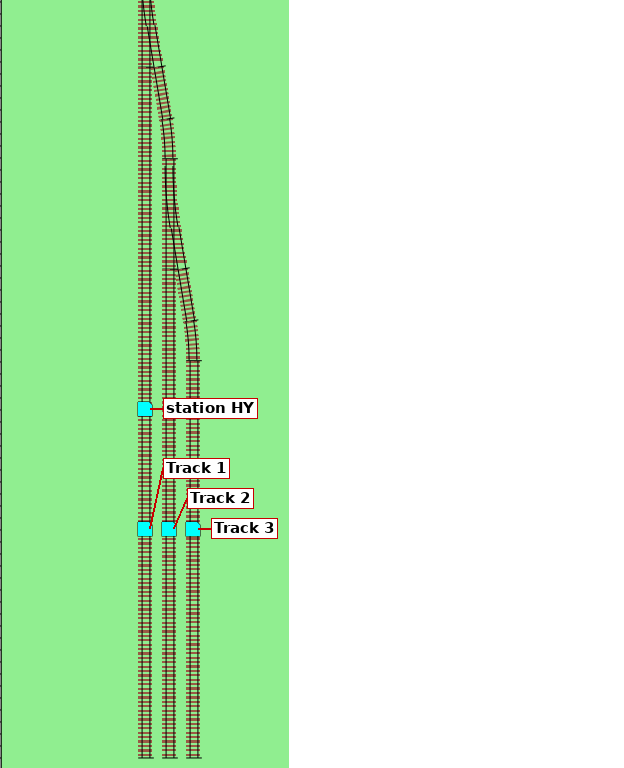
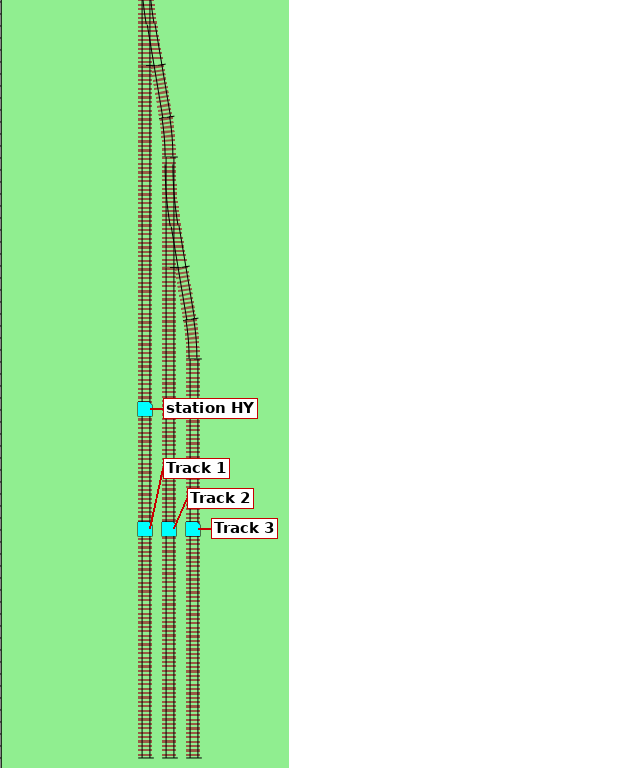
mcp: generate_track_plan: a straight yard track holds what was asked
Found in the tutorial walk-through: the plan said Hillside yard Track 2
holds 6 cars, the export measured 5 (35.86 in). The planner took a
straight track's clearance point from the diverging track's offset;
the diverging track curves back toward the straight one, so the nearest
distance, which the export measures, reaches 13 ft a little later.
straight_clearance_point() measures that, and the yard's straight tracks
use it (the yard is sized for the shorter of its last two tracks). Test:
the plan's yard capacities equal the export's; every track holds the 6
cars asked for.

The yard is 0.14 in longer: the throat, MP zero (its note at y 67.9) and
the quoted MPs move by about 0.01-0.02; chapter 8 no longer explains a
6-car track holding 5; screenshots retaken.

Changed region(s): [[0.2131, 0.0, 0.3349, 0.9062]]

diff --git a/mcp/src/xtrkcad_mcp/track_plan.py b/mcp/src/xtrkcad_mcp/track_plan.py
@@ -466,6 +466,47 @@ def clearance_tail(defn: TurnoutDef, clearance: float, spacing: float,
     return _clearance_run(defn, clearance, spacing, radius)[1]
 
 
+def straight_clearance_point(defn: TurnoutDef, clearance: float, spacing: float,
+                             radius: float) -> float:
+    """How far from a turnout's points the *straight* track is clear of the
+    diverging one: where the nearest distance from it to the diverging track
+    reaches ``clearance``. The diverging track curves back toward it, so this
+    is a little beyond clearance_point() (the diverging track's own offset
+    there), which is what the export measures a straight track by."""
+    xs = clearance_point(defn, clearance, spacing, radius)
+    pts = _diverging_path(defn, spacing, radius)
+    segs = list(zip(pts, pts[1:]))
+
+    def nearest(x: float) -> float:
+        best = math.inf
+        for (x0, y0), (x1, y1) in segs:
+            dx, dy = x1 - x0, y1 - y0
+            sq = dx * dx + dy * dy
+            t = 0.0 if sq < 1e-12 else max(0.0, min(1.0, ((x - x0) * dx - y0 * dy) / sq))
+            best = min(best, math.hypot(x - (x0 + t * dx), -(y0 + t * dy)))
+        return best
+
+    while nearest(xs) < clearance - 1e-9 and xs < pts[-1][0] + 1.0:
+        xs += 0.002
+    return xs
+
+
+def _diverging_path(defn: TurnoutDef, spacing: float, radius: float):
+    """The diverging track as points (along the straight route, offset from
+    it): through the turnout, the run out at the frog angle, the curve back
+    to parallel at ``spacing``."""
+    _along, straight, r = _offset_run(defn, spacing, radius)
+    th = math.radians(defn.frog_angle)
+    xd, yd = defn.diverge_length, abs(defn.diverge_offset)
+    pts = _diverging_samples(defn)
+    pts += [(xd + t * math.cos(th), yd + t * math.sin(th))
+            for t in [straight * k / 200 for k in range(201)]]
+    x2 = xd + straight * math.cos(th) + r * math.sin(th)
+    pts += [(x2 - r * math.sin(phi), spacing - r * (1.0 - math.cos(phi)))
+            for phi in [th * (1 - k / 200) for k in range(201)]]
+    return pts
+
+
 def _clearance_run(defn: TurnoutDef, clearance: float, spacing: float,
                    radius: float) -> tuple[float, float]:
     along, straight, r = _offset_run(defn, spacing, radius)
@@ -534,6 +575,10 @@ class _Builder:
         self.tail = clearance_tail(turnouts.left, spec.clearance_in, spec.track_spacing_in,
                                    spec.curve_radius_in)
         self.xc = self.fp - self.tail
+        # Where the straight track beside a diverging one is clear of it
+        # (nearest distance), along the main: the yard's straight tracks.
+        self.xs = straight_clearance_point(turnouts.left, spec.clearance_in,
+                                           spec.track_spacing_in, spec.curve_radius_in)
         self.main_turnouts: list[tuple[float, float]] = []   # [a, b] main intervals
         self.errors: list[str] = []
 
@@ -667,8 +712,10 @@ def build_track_plan(spec: TrackPlanSpec, config: LayoutConfig,
         # Track k's points are (k-1) offset runs out from the throat; each
         # track holds cars from its clearance point with the next track out,
         # so the last two tracks are the shortest.
+        # The last two tracks are the shortest: the straight one is clear a
+        # little later (xs) than the diverging one (xc).
         s_y = run.s0 + y.track_length_in + (
-            (y.tracks - 2) * b.fp + b.xc if y.tracks > 1 else 0.0)
+            (y.tracks - 2) * b.fp + max(b.xc, b.xs) if y.tracks > 1 else 0.0)
         if s_y > run.s1:
             b.errors.append(f"yard {y.id}: needs {s_y - run.s0:.1f} in on shelf {run.shelf}, "
                             f"which has {run.s1 - run.s0:.1f} in")
@@ -686,7 +733,7 @@ def build_track_plan(spec: TrackPlanSpec, config: LayoutConfig,
                                                   b.layer["Storage"])
                     b.model.add(Straight(0, b.layer["Storage"], t.ends()[1][:2],
                                          route.at(run, run.s0, v_k)))
-                    usable = s_y - (k - 1) * b.fp - b.xc - run.s0
+                    usable = s_y - (k - 1) * b.fp - b.xs - run.s0
                     s_k, v_k = s_next, v_next
                 else:
                     if y.tracks > 1:

diff --git a/mcp/tests/test_tutorial.py b/mcp/tests/test_tutorial.py
@@ -100,27 +100,27 @@ def _station(export, ident):
 def test_quoted_station_mileposts(export):
     """Chapter 5's table."""
     assert [(s["id"], s["mp"]) for s in export["stations"]] == [
-        ("HY", 0.0), ("AL", 3.395), ("BI", 13.643), ("CE", 21.521)]
+        ("HY", 0.0), ("AL", 3.385), ("BI", 13.626), ("CE", 21.505)]
     assert (_station(export, "AL")["mp_entry"], _station(export, "AL")["mp_exit"]) == (
-        0.984, 5.807)
+        0.973, 5.796)
     assert _station(export, "AL")["siding_cars"] == 5
     assert _station(export, "CE")["terminus"] is True
 
 
 def test_quoted_yard_limits(export):
-    """Chapter 6: Cedar's board moves its zone's start out to MP 20.261."""
+    """Chapter 6: Cedar's board moves its zone's start out to MP 20.244."""
     ce = next(z for z in export["yard_limits"] if z["id"] == "CE")
-    assert (ce["mp_start"], ce["mp_end"], ce["source"]) == (20.261, 21.521, "board")
+    assert (ce["mp_start"], ce["mp_end"], ce["source"]) == (20.244, 21.505, "board")
 
 
 def test_quoted_capacities(export):
-    """Chapters 7-9 (chapter 8: Track 2 falls just short of six cars)."""
+    """Chapters 7-9 (chapter 8: the plan's 6-car yard tracks hold 6)."""
     spots = {i["id"]: (i["car_spots"], i["spur_capacity_cars"])
              for i in export["industries"] + export["team_tracks"]}
     assert spots == {"AL_FEED": (2, 3), "AL_TEAM": (2, 2), "BI_LUMBER": (3, 4)}
     hy = next(y for y in export["yards"] if y["id"] == "HY")
     assert [(t["label"], t["capacity_cars"]) for t in hy["tracks"]] == [
-        ("Track 1", 8), ("Track 2", 5), ("Track 3", 6)]
+        ("Track 1", 8), ("Track 2", 6), ("Track 3", 6)]
     coal = export["facilities"][0]
     assert (coal["id"], coal["car_spots"], coal["capacity_cars"]) == ("CE_COAL", 3, 3)
 
@@ -137,7 +137,7 @@ def test_quoted_segments(export):
     """Chapter 12's table."""
     assert [(s["from_station"], s["to_station"], s["length_ft"])
             for s in export["segments"]] == [
-        ("HY", "AL", 295.746), ("AL", "BI", 892.553), ("BI", "CE", 686.211)]
+        ("HY", "AL", 294.817), ("AL", "BI", 892.03), ("BI", "CE", 686.211)]
 
 
 def test_quoted_export_refusal(base, tmp_path):
@@ -168,9 +168,9 @@ def test_quoted_timetable(base, tmp_path):
         "| Station | MP | 1 out | 1 back |",
         "|---|---|---|---|",
         "| HY Hillside | 0.0 | 07:00 | 10:15 |",
-        "| AL Alder | 3.395 | 07:12 – 07:42 | 10:03 |",
-        "| BI Birch | 13.643 | 08:12 – 08:37 | 09:33 |",
-        "| CE Cedar | 21.521 | 09:00 | 09:10 |"]
+        "| AL Alder | 3.385 | 07:12 – 07:42 | 10:03 |",
+        "| BI Birch | 13.626 | 08:12 – 08:37 | 09:33 |",
+        "| CE Cedar | 21.505 | 09:00 | 09:10 |"]
     assert r["table"] in TUTORIAL.read_text(encoding="utf-8")
     t = r["trains"][0]
     assert (t["fast_minutes"], t["real_minutes"]) == (195, 65.0)
@@ -270,3 +270,22 @@ def test_every_note_is_on_its_track(base, tmp_path, chapter):
             continue                              # position not used
         track, dist = snap_note(layout, note)
         assert track is not None and dist <= 0.5, (note.kind, note.id, dist)
+
+
+def test_plan_and_export_agree_on_the_yard(tmp_path):
+    """What generate_track_plan says each yard track holds is what the export
+    measures on it: both count from the clearance point by the nearest
+    distance between the tracks (a straight track beside a diverging one is
+    clear a little later than the diverging track's own offset says)."""
+    from xtrkcad_mcp.server import generate_layout, generate_track_plan
+    out = tmp_path / "plan" / "hillside.xtc"
+    out.parent.mkdir()
+    generate_layout(str(HILLSIDE), str(out))
+    plan = generate_track_plan(str(HILLSIDE), str(out))
+    yard = next(f for f in plan["features"] if f["id"] == "HY")
+    planned = [(t["label"], t["capacity_cars"]) for t in yard["tracks"]]
+    export = build_export_v2(_state(out, tmp_path, 8))
+    measured = [(t["label"], t["capacity_cars"])
+                for y in export["yards"] if y["id"] == "HY" for t in y["tracks"]]
+    assert planned == measured
+    assert min(c for _, c in planned) >= 6          # the plan asks for 6-car tracks

diff --git a/mcp/tests/test_review_fixes.py b/mcp/tests/test_review_fixes.py
@@ -102,7 +102,7 @@ def test_station_distances_agree_with_the_export(hillside):
     pairs = {(d["from"], d["to"]): d for d in server.get_station_distances(str(hillside))}
     hy_al = pairs[("HY", "AL")]
     assert (hy_al["mp_distance"], hy_al["distance_proto_ft"], hy_al["source"]) == (
-        3.395, 295.7, "mileposts")
+        3.385, 294.8, "mileposts")
     export = T.build_export_v2(parse_file(hillside))
     seg = {(s["from_station"], s["to_station"]): s["length_ft"] for s in export["segments"]}
     for (a, b), ft in seg.items():
@@ -114,7 +114,7 @@ def test_stations_from_the_convention_notes(hillside):
     st = {s["name"]: s for s in server.get_stations(str(hillside))}
     assert sorted(st) == ["AL", "BI", "CE", "HY"]
     assert (st["AL"]["mp"], st["AL"]["station_name"], st["AL"]["source"]) == (
-        3.395, "Alder", "conventions")
+        3.385, "Alder", "conventions")
     assert (st["AL"]["x"], st["AL"]["y"]) == (12.0, 109.5)
 
 

diff --git a/mcp/docs/operating-conventions-tutorial.md b/mcp/docs/operating-conventions-tutorial.md
@@ -193,7 +193,7 @@ throat, the first switch the main meets, and counts one MP per foot:
 {"kind": "reference", "id": "MP_ZERO", "mp": 0, "mp_scale": 12, "mp_unit": "in"}
 ```
 
-Place it on `L1-Main` at the yard throat switch, at its points (x 12, y 67.7).
+Place it on `L1-Main` at the yard throat switch, at its points (x 12, y 67.9).
 
 ![The MP_ZERO note on the yard throat switch](images/tutorial/mp-zero.png)
 
@@ -283,9 +283,9 @@ export_layout_data("hillside_division.xtc")
 | Station | MP | Limits (MP) | Siding | Main between the switches |
 |---|---|---|---|---|
 | HY Hillside | 0.0 | terminus | | |
-| AL Alder | 3.395 | 0.984 – 5.807 | 5 cars | 4 cars |
-| BI Birch | 13.643 | 11.232 – 16.054 | 5 cars | 4 cars |
-| CE Cedar | 21.521 | terminus | 4 cars | 3 cars |
+| AL Alder | 3.385 | 0.973 – 5.796 | 5 cars | 4 cars |
+| BI Birch | 13.626 | 11.215 – 16.038 | 5 cars | 4 cars |
+| CE Cedar | 21.505 | terminus | 4 cars | 3 cars |
 
 The track plan asked for 5-car sidings at Alder and Birch, and the export gives 5: both count
 what a track holds between its **clearance points**, where a car stops fouling the other leg of
@@ -298,11 +298,11 @@ needs to clear it, doesn't count.
 **Yard limits** are a stretch of main where trains may move without a clearance, at restricted
 speed, so a switcher can work the station. A layout needs no yard-limit notes: every station's
 zone defaults to its own limits, from entry switch to exit switch [4.4]. At Alder that's MP
-0.984 – 5.807, the siding's switches.
+0.973 – 5.796, the siding's switches.
 
 A **YL board** is a `yard_limit` note with the station's id, on the main where the board stands.
 It moves that end of the zone out to the board. Cedar is a terminus, so its default zone is only
-the terminus switch (MP 21.521); a board out on the line gives its switcher room to run around
+the terminus switch (MP 21.505); a board out on the line gives its switcher room to run around
 the train:
 
 ```json
@@ -315,7 +315,7 @@ The export's `yard_limits` then has Cedar's zone from the board to the end of th
 
 | Zone | From MP | To MP | Source |
 |---|---|---|---|
-| CE | 20.261 | 21.521 | board |
+| CE | 20.244 | 21.505 | board |
 
 The other stations keep their default zones (`source: station`).
 
@@ -381,9 +381,9 @@ The export lists each with its spots and what its track holds:
 
 | Industry | Station | Branch MP | Car spots | Track holds |
 |---|---|---|---|---|
-| AL_FEED Alder Feed Mill | AL | 1.75 | 2 | 3 cars |
-| AL_TEAM Alder team track | AL | 6.755 | 2 | 2 cars |
-| BI_LUMBER Birch Lumber | BI | 15.288 | 3 | 4 cars |
+| AL_FEED Alder Feed Mill | AL | 1.739 | 2 | 3 cars |
+| AL_TEAM Alder team track | AL | 6.744 | 2 | 2 cars |
+| BI_LUMBER Birch Lumber | BI | 15.272 | 3 | 4 cars |
 
 The branch MP is where the spur leaves the main. The track is measured between clearance points
 like a siding [2], so the feed mill's spur holds 3 cars although only 2 are spotted.
@@ -438,11 +438,11 @@ The export's `yards` gives each track's capacity:
 | Track | Function | Holds |
 |---|---|---|
 | Track 1 | arrival_departure | 8 cars |
-| Track 2 | classification | 5 cars |
+| Track 2 | classification | 6 cars |
 | Track 3 | classification | 6 cars |
 
-Tracks 2 and 3 are within a fraction of an inch of each other, about 36 in between clearance
-points, but Track 2 falls just short of six cars, and capacity counts whole cars.
+The track plan asked for tracks that hold 6 cars, and the two shortest, Tracks 2 and 3, hold
+just that: 36 in between their clearance points. Track 1, straight off the main, is longer.
 
 - **Functions** for a station's yard: `arrival`, `departure`, `arrival_departure`,
   `classification`, `runaround`, `lead`, `interchange`, `caboose`, `rip` (repair in place),
@@ -596,8 +596,8 @@ segments, in prototype feet along the main:
 
 | From | To | Length |
 |---|---|---|
-| HY | AL | 295.746 ft |
-| AL | BI | 892.553 ft |
+| HY | AL | 294.817 ft |
+| AL | BI | 892.03 ft |
 | BI | CE | 686.211 ft |
 
 While the check finds an **error**, nothing is written; the result says why:
@@ -661,17 +661,17 @@ make_timetable("hillside_division.xtc", "hillside_operations.yaml")
 | Station | MP | 1 out | 1 back |
 |---|---|---|---|
 | HY Hillside | 0.0 | 07:00 | 10:15 |
-| AL Alder | 3.395 | 07:12 – 07:42 | 10:03 |
-| BI Birch | 13.643 | 08:12 – 08:37 | 09:33 |
-| CE Cedar | 21.521 | 09:00 | 09:10 |
+| AL Alder | 3.385 | 07:12 – 07:42 | 10:03 |
+| BI Birch | 13.626 | 08:12 – 08:37 | 09:33 |
+| CE Cedar | 21.505 | 09:00 | 09:10 |
 
 Read "1 out" down and "1 back" up. Two times are arrival and departure; one time is a departure,
 an arrival at the end of a run, or a pass. The Local leaves Hillside at 07:00, works Alder and
 Birch, turns at Cedar at 09:10 and is back at 10:15: 3 hours 15 minutes on the clock, 65 real
 minutes.
 
-Each figure comes from the layout. Hillside to Alder is 3.395 MP, most of it inside Alder's
-yard limits, which start at MP 0.984 (its entry switch): 0.984 MP at 30 mph and 2.411 at 15 make
+Each figure comes from the layout. Hillside to Alder is 3.385 MP, most of it inside Alder's
+yard limits, which start at MP 0.973 (its entry switch): 0.973 MP at 30 mph and 2.412 at 15 make
 12 minutes. Move a station note or a YL board, add a car spot, and the next timetable follows.
 
 **Clock and layout speed.** The tool also reports the speed a model must really run at to keep

diff --git a/mcp/docs/operating-conventions.md b/mcp/docs/operating-conventions.md
@@ -148,8 +148,8 @@ Valley line's main (upper level); its interchange tracks are where the two meet.
   a station without one is not reported.
 - **Default zone:** every station's yard limits are its own limits, entry to exit switch
   (5.2). A physical board (this note) with the station's id moves the zone's end out to the
-  board: Hillside's CE is a terminus at its switch, MP 21.521, with a board out on the line at
-  MP 20.261, so its zone is MP 20.261-21.521. Boards
+  board: Hillside's CE is a terminus at its switch, MP 21.505, with a board out on the line at
+  MP 20.244, so its zone is MP 20.244-21.505. Boards
   whose id is no station make a zone of their own.
 - One note per board, placed on main track.
 - Boards with the same `id` bound one yard-limit zone: main track only, with special operating
